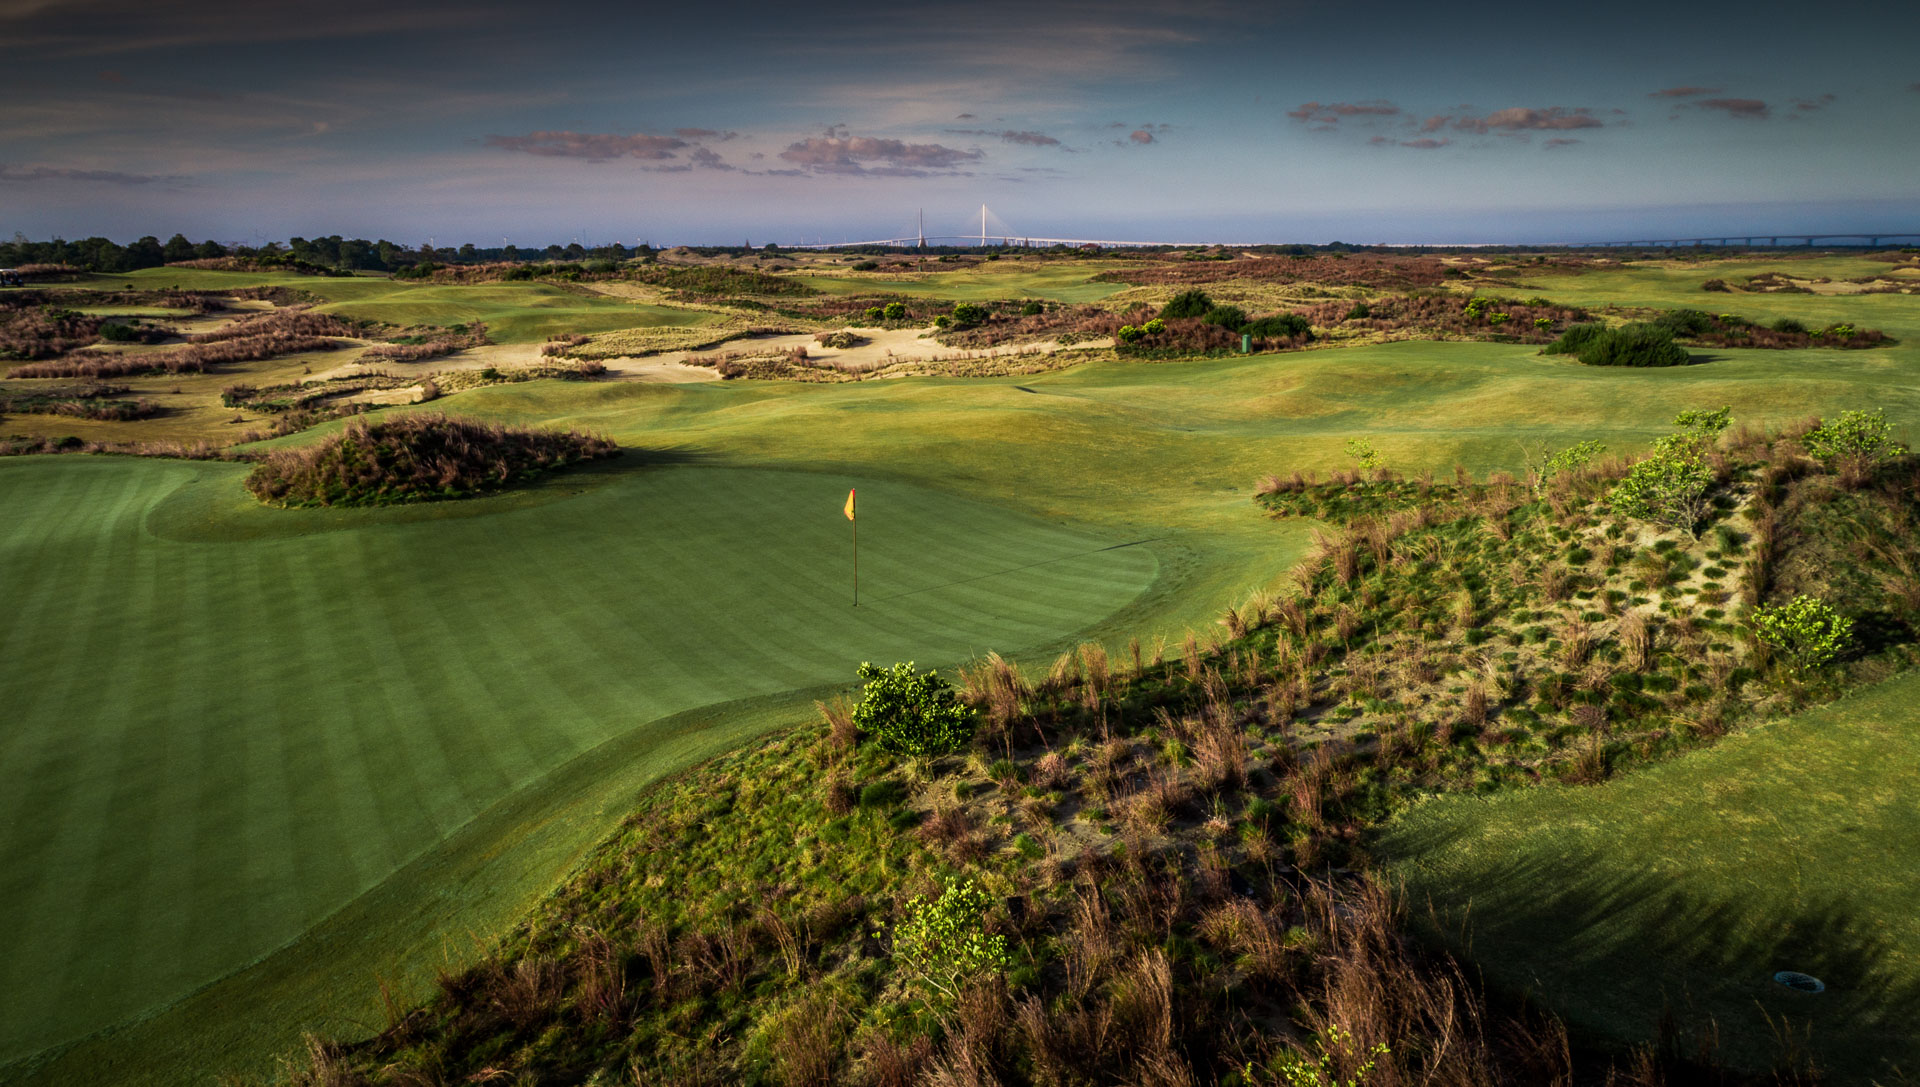
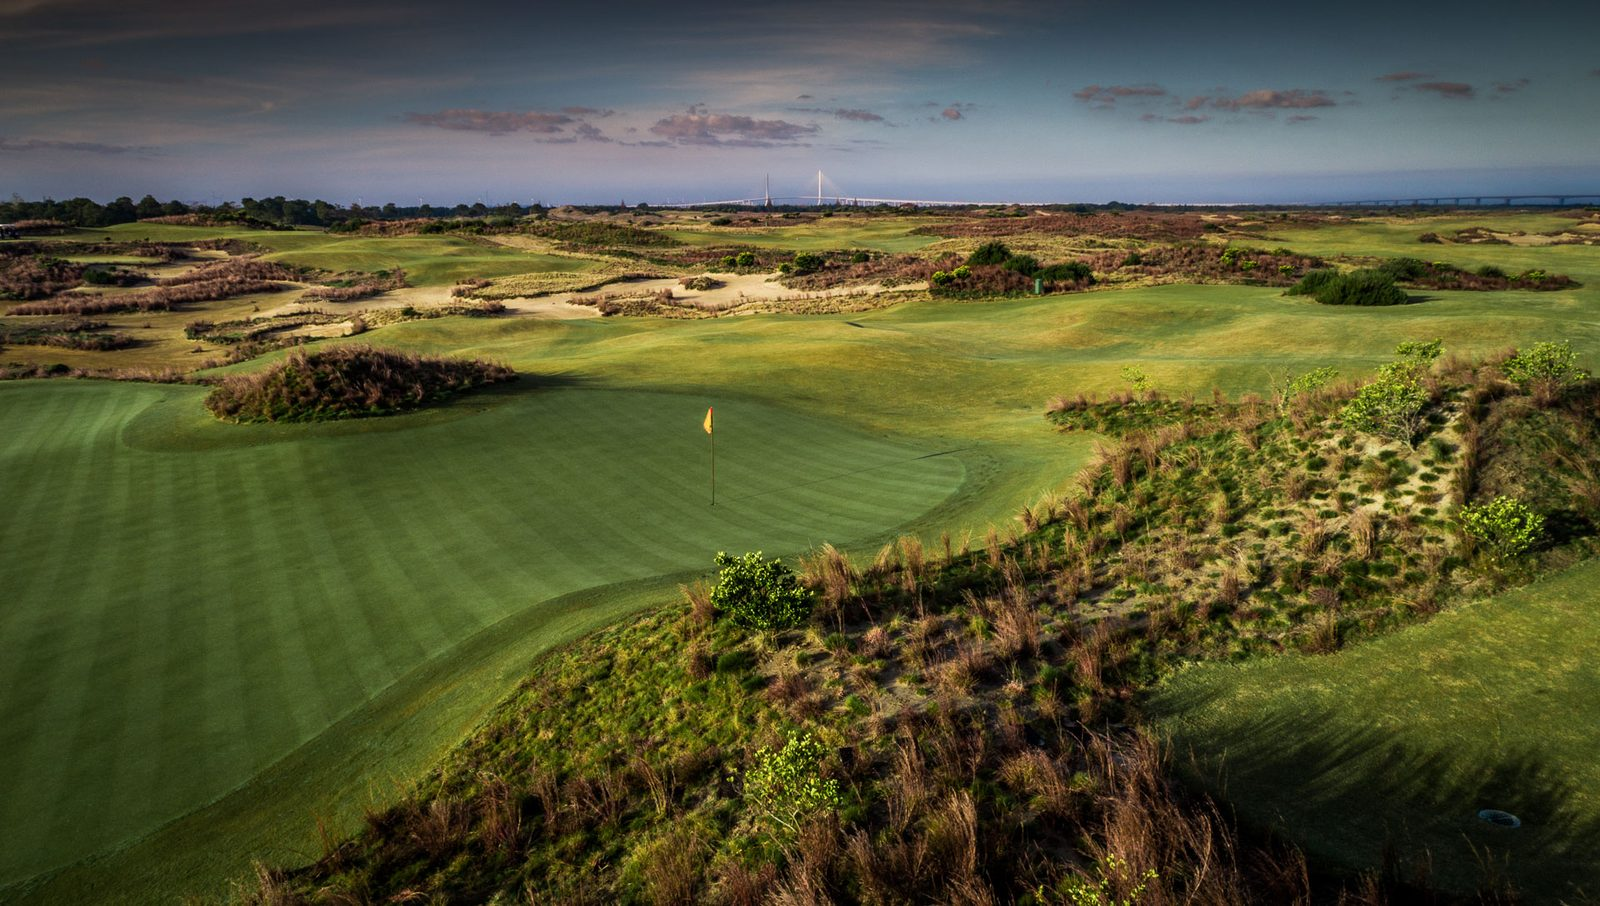
Sync latest working versions of south-of-the-clouds page and recompressed course images

diff --git a/south-of-the-clouds.html b/south-of-the-clouds.html
@@ -3,8 +3,8 @@
 <head>
 <meta charset="UTF-8">
 <meta name="viewport" content="width=device-width, initial-scale=1.0">
-<title>Imperial China — Beijing Golf Journeys | Golf China</title>
-<meta name="description" content="A private golf journey through Imperial China — Great Wall fairways at Reignwood Pine Valley, early-access mornings in the Forbidden City, hutong courtyards and a table set on the ramparts of the Wall itself.">
+<title>South of the Clouds — Yunnan Golf Journeys | Golf China</title>
+<meta name="description" content="A private golf journey through Yunnan — World Top 100 golf at Spring City, rounds beneath the glacier of Jade Dragon Snow Mountain, Lijiang's old town, the Tea Horse Road and dawn prayers in Shangri-La.">
 <link rel="preconnect" href="https://fonts.googleapis.com">
 <link rel="preconnect" href="https://fonts.gstatic.com" crossorigin>
 <link href="https://fonts.googleapis.com/css2?family=Cormorant+Garamond:ital,wght@0,400;0,500;0,600;1,400&family=Jost:wght@300;400;500;600&display=swap" rel="stylesheet">
@@ -245,15 +245,15 @@ footer .base{display:flex;justify-content:space-between;font-size:12px;opacity:.
 <!-- HERO -->
 <section class="hero" id="top" style="padding:0">
   <picture>
-    <source media="(max-width:760px)" srcset="assets/img/hero-templeofheaven-mobile.jpg">
-    <img class="bg" src="assets/img/hero-templeofheaven.jpg" alt="The Temple of Heaven glowing at golden hour beside imperial walls, Beijing">
+    <source media="(max-width:760px)" srcset="assets/img/hero-yunnan-mobile.jpg">
+    <img class="bg" src="assets/img/hero-yunnan.jpg" alt="The turquoise water of Blue Moon Valley beneath the snow peaks of Jade Dragon Snow Mountain, Lijiang">
   </picture>
   <div class="scrim"></div>
   <div class="container hero-inner">
-    <div class="crumbs fade in"><a href="index.html">Home</a><span class="sep">·</span><a href="index.html#destinations">Destinations</a><span class="sep">·</span>Beijing</div>
-    <span class="eyebrow">Beijing · North China</span>
-    <h1>Imperial China</h1>
-    <p class="hero-tag">Six hundred years of empire, a wild stretch of the Wall to yourselves — and golf played in its shadow.</p>
+    <div class="crumbs fade in"><a href="index.html">Home</a><span class="sep">·</span><a href="index.html#destinations">Destinations</a><span class="sep">·</span>Yunnan</div>
+    <span class="eyebrow">Yunnan · Southwest China</span>
+    <h1>South of the Clouds</h1>
+    <p class="hero-tag">Fairways at three thousand metres, a glacier above the green — and a corner of China that feels like another country.</p>
   </div>
 </section>
 
@@ -261,10 +261,10 @@ footer .base{display:flex;justify-content:space-between;font-size:12px;opacity:.
 <div class="facts">
   <div class="container">
     <div class="grid">
-      <div class="f"><div class="fk">Ideal Length</div><div class="fv">4–5 nights</div><div class="fs">as part of a longer journey</div></div>
-      <div class="f"><div class="fk">Golf</div><div class="fv">2–3 rounds</div><div class="fs">incl. Reignwood Pine Valley</div></div>
-      <div class="f"><div class="fk">Best Season</div><div class="fv">Apr–Oct</div><div class="fs">clear skies, golden autumn light</div></div>
-      <div class="f"><div class="fk">Pairs With</div><div class="fv">Hangzhou · Shanghai</div><div class="fs">45 min by air · 4.5 h by rail</div></div>
+      <div class="f"><div class="fk">Ideal Length</div><div class="fv">5–7 nights</div><div class="fs">or 4 as part of a longer journey</div></div>
+      <div class="f"><div class="fk">Golf</div><div class="fv">3–4 rounds</div><div class="fs">Spring City's two courses + Jade Dragon</div></div>
+      <div class="f"><div class="fk">Best Season</div><div class="fv">Year-round</div><div class="fs">eternal spring in Kunming · Mar–Nov in Lijiang</div></div>
+      <div class="f"><div class="fk">Pairs With</div><div class="fv">Hainan · Beijing</div><div class="fs">direct flights from Kunming and Lijiang</div></div>
     </div>
   </div>
 </div>
@@ -274,19 +274,20 @@ footer .base{display:flex;justify-content:space-between;font-size:12px;opacity:.
   <div class="container ov-wrap">
     <div class="ov-txt fade">
       <span class="eyebrow">The Journey</span>
-      <h2>Begin where China began.</h2>
-      <p class="lede">Every empire leaves a capital, and none left one like Beijing. The Forbidden City still sits at the centre of the city's grid like a held breath; the Great Wall still rides the ridgelines an hour to the north. This is where a first journey through China should open — among the icons, before the country starts surprising you.</p>
-      <p>Our Beijing is quieter than the one most visitors see. You enter the Forbidden City as the gates open and the courtyards are still empty. You walk a wild, unrestored stretch of the Wall with no one else on it. And between the monuments you slip into the hutongs — the low, grey-brick lanes where the city actually lives — for noodles, courtyard cafés and the best roast duck of your life.</p>
-      <p>The golf belongs to the same landscape. At Reignwood Pine Valley, Jack Nicklaus laid fairways through the Jundu Mountains with the Wall tracing the skyline above the back nine. Few rounds anywhere carry a sense of place like it.</p>
+      <h2>China, south of the clouds.</h2>
+      <p class="lede">Yúnnán means "south of the clouds," and the province keeps the promise of the name. Up on its high plateau the light is thin and golden, camellias bloom through December, and the land climbs from rice terraces through pine forest to the first white shoulders of the Himalaya. No region of China feels less like the China you imagined — and none rewards the journey more.</p>
+      <p>The route runs from Kunming, the City of Eternal Spring, north along the old Tea Horse Road to Lijiang, where the grey-tile rooftops of the Naxi old town crowd beneath Jade Dragon Snow Mountain. Beyond it the road keeps rising — to gorges, lamaseries and the highland plain they renamed Shangri-La. Markets here sell wild matsutake; tea is poured the way it has been for a thousand years.</p>
+      <p>And the golf is unlike anywhere else in the game. Spring City's two courses rank among Asia's very best, laid over a highland lake at 2,000 metres. At Jade Dragon, you play the world's longest championship course beneath a 5,500-metre glacier — where the air is thin enough that the ball flies ten percent farther, and you'll need it.</p>
     </div>
     <aside class="glance fade">
       <h3>At a Glance</h3>
       <ul>
-        <li>Golf beneath the Great Wall at Reignwood Pine Valley</li>
-        <li>Early-access morning in the Forbidden City</li>
-        <li>A private, unrestored stretch of the Wall — with dinner on the ramparts</li>
-        <li>Hutong life: courtyard lanes, markets and a chef's-table duck dinner</li>
-        <li>Hotels the likes of the Waldorf Astoria's hutong courtyards</li>
+        <li>Two rounds at Spring City — Nicklaus' Mountain and Trent Jones Jr's Lake</li>
+        <li>Golf beneath a 5,500 m glacier at Jade Dragon Snow Mountain</li>
+        <li>Lijiang's UNESCO old town in the quiet hours, with a Naxi guide</li>
+        <li>The Tea Horse Road: aged pu'er, courtyard tea houses, mountain villages</li>
+        <li>Dawn prayers with the monks at Songzanlin, Shangri-La</li>
+        <li>Hotels the likes of Banyan Tree Lijiang, the snow mountain at the window</li>
         <li>Private driver, guide and every tee time handled</li>
       </ul>
       <p class="gnote">Every element below is a starting point — shaped to your dates, your party and your pace.</p>
@@ -299,60 +300,60 @@ footer .base{display:flex;justify-content:space-between;font-size:12px;opacity:.
   <div class="container">
     <div class="section-head fade">
       <span class="eyebrow" style="color:var(--gold)">The Golf</span>
-      <h2>Fairways in the shadow of the Wall.</h2>
-      <p>Beijing's best golf hides in the mountains north of the city — private, immaculate and all but unknown to international golfers.</p>
+      <h2>Golf at altitude.</h2>
+      <p>Yunnan's two great venues hold World Top 100 and Asia Top 50 rankings between them — highland golf in thin, clear air, with scenery no other golf destination can answer.</p>
     </div>
 
     <article class="golf-feature fade">
       <div class="img gal">
-        <img class="active" src="assets/img/reignwood-greatwall.jpg" alt="Golfers on a Reignwood Pine Valley fairway with the Great Wall snaking across the mountains behind">
-        <img src="assets/img/reignwood-caddies.jpg" alt="Caddies and players walking a Reignwood fairway beneath the jagged Jundu peaks" loading="lazy">
-        <img src="assets/img/reignwood-autumn-green.jpg" alt="An autumn green at Reignwood Pine Valley with a mountain rising behind" loading="lazy">
-        <img src="assets/img/reignwood-clubhouse.jpg" alt="The white château clubhouse of Reignwood Pine Valley beneath the Jundu Mountains" loading="lazy">
+        <img class="active" src="assets/img/springcity-lake-dusk.jpg" alt="Dusk over a Spring City fairway running down toward Yangzong Lake, Kunming">
+        <img src="assets/img/springcity-lake-aerial.jpg" alt="An aerial view of Spring City's Lake Course in golden evening light above Yangzong Lake" loading="lazy">
+        <img src="assets/img/springcity-mountain-green.jpg" alt="An elevated green on Spring City's Mountain Course, the highland lake spread out below" loading="lazy">
+        <img src="assets/img/springcity-island-green.jpg" alt="An island green ringed by white sand at Spring City Golf &amp; Lake Resort" loading="lazy">
+        <img src="assets/img/springcity-lakeside-bunker.jpg" alt="A bunkered lakeside green at Spring City with Yangzong Lake beyond" loading="lazy">
         <button class="gal-btn prev" aria-label="Previous image">‹</button>
         <button class="gal-btn next" aria-label="Next image">›</button>
         <div class="gal-dots"></div>
-        <span class="tag">Signature round</span>
+        <span class="tag">World Top 100</span>
       </div>
       <div class="c">
-        <div class="region">Jundu Mountains · Changping</div>
-        <h3>Reignwood Pine Valley</h3>
-        <p>Set beneath the Great Wall near Badaling, Reignwood Pine Valley is one of China's most private and prestigious golf clubs — a Nicklaus mountain-parkland layout where elevated tees, sculpted bunkering and fast, guarded greens unfold below the Jundu Mountains, the Wall tracing the ridgeline above. Membership is closely held; we arrange guest play on your behalf, with caddies, forecaddies and a quiet clubhouse lunch to follow.</p>
+        <div class="region">Yangzong Lake · Kunming</div>
+        <h3>Spring City Golf &amp; Lake Resort</h3>
+        <p>Asia's most complete golf resort: two courses ranked among the continent's finest, draped over hills above a highland lake at 2,000 metres. Robert Trent Jones Jr's Lake Course tumbles toward the water through forests of eucalyptus and pine — a World Top 100 fixture — while Jack Nicklaus' Mountain Course climbs the ridgeline above it, all elevation change and long views. The eternal-spring climate means both play beautifully in any month of the year.</p>
         <dl>
-          <dt>Designer</dt><dd>Jack Nicklaus / Nicklaus Design</dd>
-          <dt>Setting</dt><dd>Great Wall mountain parkland</dd>
-          <dt>Best season</dt><dd>Apr–Oct</dd>
-          <dt>Pair with</dt><dd>Great Wall, Forbidden City, private Beijing dining</dd>
+          <dt>Designers</dt><dd>Jack Nicklaus · Robert Trent Jones Jr</dd>
+          <dt>Setting</dt><dd>Lakeside highland, 2,000 m</dd>
+          <dt>Best season</dt><dd>Year-round</dd>
+          <dt>Pair with</dt><dd>Kunming's old quarters, the Stone Forest — then Lijiang by air</dd>
         </dl>
       </div>
     </article>
 
     <article class="golf-feature fade">
       <div class="img gal">
-        <img class="active" src="assets/img/course-topwin.jpg" alt="Autumn fairways at Topwin Golf &amp; Country Club, with the Yanqi Lake pagoda and the Yanshan mountains beyond">
-        <img src="assets/img/topwin-lakeside-green.jpg" alt="A bunkered lakeside green jutting into Yanqi Lake, framed by autumn leaves" loading="lazy">
-        <img src="assets/img/topwin-pagoda-lake.jpg" alt="The Yanqi Lake pagoda mirrored in still water beside the course" loading="lazy">
-        <img src="assets/img/topwin-autumn-fairways.jpg" alt="Rolling fairways and autumn grasses beneath the Yanshan range at Topwin" loading="lazy">
-        <img src="assets/img/topwin-stone-bridge.jpg" alt="A stone bridge arching over a still stream on the course, golden willows reflected in the water" loading="lazy">
+        <img class="active" src="assets/img/jadedragon-snowpeak-fairway.jpg" alt="A fairway at Jade Dragon Snow Mountain Golf Club beneath the full sweep of the glacier-capped massif">
+        <img src="assets/img/jadedragon-summer-fairway.jpg" alt="Sunlit summer fairways at Jade Dragon with the snow peak rising behind" loading="lazy">
+        <img src="assets/img/jadedragon-lake-reflection.jpg" alt="Jade Dragon Snow Mountain reflected in still water beside the course" loading="lazy">
+        <img src="assets/img/jadedragon-bunkers-peak.jpg" alt="Red-earth bunkers guarding a green beneath the peaks of Jade Dragon Snow Mountain" loading="lazy">
         <button class="gal-btn prev" aria-label="Previous image">‹</button>
         <button class="gal-btn next" aria-label="Next image">›</button>
         <div class="gal-dots"></div>
-        <span class="tag">A presidential round</span>
+        <span class="tag">Golf at 3,100 m</span>
       </div>
       <div class="c">
-        <div class="region">Yanqi Lake · Huairou</div>
-        <h3>Topwin Country Club</h3>
-        <p>Lakeside fairways beneath the Yanshan range, beside the waters where the world's leaders gathered for the 2014 APEC summit — President Obama among those to have played a round here. In autumn the course turns gold and crimson, the pagoda rising over the back nine.</p>
+        <div class="region">Lijiang · Yulong</div>
+        <h3>Jade Dragon Snow Mountain</h3>
+        <p>The most dramatic setting in golf. At 3,100 metres in the Himalayan foothills, Jade Dragon stretches to 8,450 yards — the longest championship course in the world — yet the thin air carries your ball ten percent farther, and you will want every metre of it. Above the fairways the 5,500-metre glacier of the snow mountain fills the sky; around them, pine forest and Naxi villages. A round here is simply unrepeatable anywhere else.</p>
         <dl>
-          <dt>Designer</dt><dd>Ian Woosnam</dd>
-          <dt>Setting</dt><dd>Lakeside parkland, Yanqi Lake</dd>
-          <dt>Claim to fame</dt><dd>Obama's Beijing round, APEC 2014</dd>
-          <dt>Pair with</dt><dd>The Great Wall at Mutianyu, 20 minutes away</dd>
+          <dt>Designer</dt><dd>Neil Haworth / Nelson &amp; Haworth</dd>
+          <dt>Setting</dt><dd>Himalayan foothills, 3,100 m</dd>
+          <dt>Claim to fame</dt><dd>The world's longest course — 8,450 yards</dd>
+          <dt>Best season</dt><dd>Mar–Nov</dd>
         </dl>
       </div>
     </article>
 
-    <p class="golf-note fade"><b>A third round</b> is easily woven in — parkland and lakeside courses across the Jundu foothills and the city's north, chosen for your dates and the season. We'll recommend the right pairing when we design your journey.</p>
+    <p class="golf-note fade"><b>The classic shape</b> is two rounds at Spring City and one beneath the snow mountain — Lijiang is 45 minutes from Kunming by air. Keen golfers add a second round at Jade Dragon; the morning light on the glacier argues for it.</p>
   </div>
 </section>
 
@@ -360,19 +361,20 @@ footer .base{display:flex;justify-content:space-between;font-size:12px;opacity:.
 <section class="journeys" id="journeys">
   <div class="container">
     <div class="section-head fade">
-      <span class="eyebrow">Journeys Featuring Beijing</span>
-      <h2>Where Beijing fits in a journey.</h2>
-      <p>Beijing rarely travels alone — it opens a longer route. Two of our sample journeys begin here; the full day-by-day shape of each lives on its own page.</p>
+      <span class="eyebrow">Journeys Featuring Yunnan</span>
+      <h2>Where Yunnan fits in a journey.</h2>
+      <p>Yunnan is the signature chapter of a Golf China route — distinctive enough to anchor a journey, connected enough to extend one. Two of our sample journeys are built around it.</p>
     </div>
     <div class="sj-grid">
 
       <article class="sjcard fade">
-        <img src="assets/img/sj-firsttime.jpg" style="object-position:bottom" alt="A palace-style clubhouse above bunkered fairways, misty hills behind"><div class="scrim"></div>
+        <span class="sj-badge">Signature Trip</span>
+        <img src="assets/img/jadedragon-fairway.jpg" alt="A fairway beneath the snow peaks of Jade Dragon Snow Mountain, Yunnan"><div class="scrim"></div>
         <div class="b">
-          <div class="specs">6–7 Nights · 3 Rounds</div>
-          <h3>First-Time Golf China</h3>
-          <div class="route">Beijing + Hangzhou</div>
-          <div class="hi">Imperial China, Great Wall golf and the quiet elegance of West Lake — the natural first journey.</div>
+          <div class="specs">10–12 Nights · 5–6 Rounds</div>
+          <h3>Snow Peaks to Tropical Coast</h3>
+          <div class="route">Yunnan + Hainan</div>
+          <div class="hi">Highland fairways and Tea Horse Road culture, then south to Asia's most exclusive golf on a tropical coast.</div>
           <div class="foot"><a href="index.html#start">Tailor This Journey →</a></div>
         </div>
       </article>
@@ -384,7 +386,7 @@ footer .base{display:flex;justify-content:space-between;font-size:12px;opacity:.
           <div class="specs">14 Nights / 15 Days · 7–9 Rounds</div>
           <h3>The Grand China Golf Journey</h3>
           <div class="route">Beijing + Hangzhou + Yunnan + Hainan</div>
-          <div class="hi">Open in the capital, finish on a tropical coast — the most complete way to experience Golf China.</div>
+          <div class="hi">Open in the capital, rise through the clouds of Yunnan, finish on a tropical coast — the complete Golf China.</div>
           <div class="foot"><a href="index.html#start">Tailor This Journey →</a></div>
         </div>
       </article>
@@ -393,8 +395,8 @@ footer .base{display:flex;justify-content:space-between;font-size:12px;opacity:.
 
     <div class="tailor fade">
       <div class="t">
-        <h3>Or build Beijing into your own.</h3>
-        <p>Add days, swap rounds for culture, bring non-golfers — every journey is designed from scratch. Tell us about your party and we'll shape the route around you.</p>
+        <h3>Or build Yunnan into your own.</h3>
+        <p>Add Shangri-La or Dali, swap rounds for gorge walks, bring non-golfers — every journey is designed from scratch. Tell us about your party and we'll shape the route around you.</p>
       </div>
       <a href="index.html#start" class="btn btn-primary">Request a Private Proposal</a>
     </div>
@@ -406,40 +408,52 @@ footer .base{display:flex;justify-content:space-between;font-size:12px;opacity:.
   <div class="container">
     <div class="section-head fade">
       <span class="eyebrow">Signature Experiences</span>
-      <h2>Beijing, arranged privately.</h2>
+      <h2>Yunnan, arranged privately.</h2>
       <p>Built on relationships on the ground, set up for your party alone — never an excursion from a brochure.</p>
     </div>
     <div class="ex-grid">
 
       <article class="excard feature fade">
-        <img src="assets/img/place-greatwall.jpg" alt="The Great Wall snaking over ridgelines at golden hour">
+        <picture>
+          <source media="(max-width:760px)" srcset="assets/img/exp-songzanlin-mobile.jpg">
+          <img src="assets/img/exp-songzanlin.jpg" alt="Monks in crimson robes walking a sunlit lane at Songzanlin Monastery, Shangri-La">
+        </picture>
         <div class="b">
-          <div class="loc">Beijing · The Wall</div>
-          <h3>The Great Wall, after hours</h3>
-          <p>A wild, unrestored stretch with a private guide — and a table set on the ramparts as the light goes gold.</p>
+          <div class="loc">Shangri-La · Yunnan</div>
+          <h3>Dawn prayers at Songzanlin</h3>
+          <p>The hillside lamasery they call the little Potala, before the first visitors arrive — butter tea with the monks as the morning chant begins.</p>
         </div>
       </article>
 
       <article class="excard fade">
-        <img src="assets/img/dest-beijing.jpg" alt="The Forbidden City at golden hour, Beijing">
+        <img src="assets/img/lijiang-oldtown-rooftops.jpg" alt="The grey-tile rooftops of Lijiang old town crowding beneath dark mountains">
         <div class="b">
-          <div class="loc">Beijing · Forbidden City</div>
-          <h3>First through the Meridian Gate</h3>
-          <p>The palace courtyards before the city wakes, with a historian who reads the architecture like a text.</p>
+          <div class="loc">Lijiang · Old Town</div>
+          <h3>The old town, before it wakes</h3>
+          <p>Lijiang's canals and grey-tile lanes in the quiet hours with a Naxi historian — ending over breakfast in a courtyard that has held the same family for ten generations.</p>
         </div>
       </article>
 
       <article class="excard fade">
-        <img src="assets/img/stay-city.jpg" alt="Golden roofs and vermilion walls of the Forbidden City, Beijing">
+        <img src="assets/img/exp-mushroom.jpg" alt="A wild porcini mushroom growing on the pine-forest floor, Yunnan">
         <div class="b">
-          <div class="loc">Beijing · Hutongs</div>
-          <h3>The hutong chef's table</h3>
-          <p>Into the morning markets with a chef, then lunch cooked and poured in a private courtyard house.</p>
+          <div class="loc">Yunnan · Jun–Sep</div>
+          <h3>The wild-mushroom table</h3>
+          <p>Into the pine forests with a master forager to hunt matsutake and porcini — then watch the morning's haul become dinner at a local chef's table.</p>
+        </div>
+      </article>
+
+      <article class="excard fade">
+        <img src="assets/img/exp-tea.jpg" alt="Tea pickers in conical hats working rolling terraced tea fields">
+        <div class="b">
+          <div class="loc">Lijiang · Yunnan</div>
+          <h3>Tea on the Tea Horse Road</h3>
+          <p>Aged pu'er poured by a tea master in a Naxi courtyard along the old caravan route — a thousand years of trade in one cup.</p>
         </div>
       </article>
 
     </div>
-    <p class="note fade">These are a beginning, not a menu — tell us what your party loves and we'll find its Beijing equivalent.</p>
+    <p class="note fade">These are a beginning, not a menu — tell us what your party loves and we'll find its Yunnan equivalent.</p>
   </div>
 </section>
 
@@ -448,26 +462,26 @@ footer .base{display:flex;justify-content:space-between;font-size:12px;opacity:.
   <div class="container">
     <div class="section-head fade">
       <span class="eyebrow" style="color:var(--gold)">Where You Stay</span>
-      <h2>Sleep inside the old city.</h2>
-      <p>Not a tower by the ring road — an address that is part of the journey itself.</p>
+      <h2>Sleep beneath the snow mountain.</h2>
+      <p>Not a tower by the airport road — an address that is part of the journey itself.</p>
     </div>
     <div class="stay-wrap fade">
-      <div class="img"><img src="assets/img/stay-city.jpg" alt="Golden imperial rooftops in central Beijing"></div>
+      <div class="img"><img src="assets/img/stay-mountain.jpg" alt="Naxi rooftops in Lijiang with Jade Dragon Snow Mountain glowing at sunset"></div>
       <div class="c">
-        <div class="loc">In the City · Hutong Courtyards</div>
-        <h3>Sleep where the city is oldest</h3>
-        <p>Our Beijing favourites sit in the hutongs, a few lanes from the Forbidden City — the likes of the Waldorf Astoria's courtyard houses, where grey brick and bronze doors give way to deep baths and very good martinis. Step out of the gate and the oldest streets in the capital are yours before breakfast.</p>
-        <p>For travelers who prefer glass and skyline to grey brick, the city's modern landmarks along the central axis make an equally good base — we'll match the address to your taste.</p>
+        <div class="loc">In Lijiang · Naxi Courtyards</div>
+        <h3>The mountain at your window</h3>
+        <p>Our Lijiang favourites are built the Naxi way — the likes of Banyan Tree Lijiang, where grey-tile villas open onto private courtyards and Jade Dragon Snow Mountain fills the window at breakfast. The old town is minutes away; the silence at night is absolute.</p>
+        <p>For travelers going on to Shangri-La, we arrange highland lodges of the same character — fires lit, oxygen humidified, the lamasery a short walk through the fields.</p>
       </div>
     </div>
 
     <div class="stay-wrap rev fade">
-      <div class="img"><img src="assets/img/place-greatwall.jpg" alt="The Great Wall riding mountain ridgelines at golden hour, north of Beijing"></div>
+      <div class="img"><img src="assets/img/springcity-resort-dusk.jpg" alt="Terracotta rooftops of the Spring City resort above Yangzong Lake at sunset"></div>
       <div class="c">
-        <div class="loc">In the Mountains · Near the Wall</div>
-        <h3>A night at the foot of the Wall</h3>
-        <p>With both rounds played out in Huairou's mountains, a night in the countryside earns its place — a quiet retreat below the ridgeline, where the Wall is visible from the terrace and the first tee is minutes away rather than an hour through traffic.</p>
-        <p>It pairs naturally with the after-hours Wall evening: dinner on the ramparts, a short drive down, and mountain silence instead of the ring road.</p>
+        <div class="loc">At Spring City · Above the Lake</div>
+        <h3>Stay on the resort, steps from the tee</h3>
+        <p>For the Kunming rounds, the move is to stay within Spring City itself — suites and villas on the hillside above Yangzong Lake, where the first tee of the Lake Course is minutes from your door and the evening is a terrace, a drink and the water turning gold below.</p>
+        <p>Thirty-six holes, no transfers, eternal-spring air: it is the easiest golf stay in China.</p>
       </div>
     </div>
 

diff --git a/index.html b/index.html
@@ -620,6 +620,47 @@ footer .base{display:flex;justify-content:space-between;font-size:12px;opacity:.
         </div>
       </article>
 
+      <article class="ccard more fade">
+        <div class="img"><img src="assets/img/course-yangtze.jpg" alt="A green at Yangtze Dunes surrounded by wild sandy dunes at dusk, Chongming Island" loading="lazy"><span class="tag">Shanghai</span></div>
+        <div class="c">
+          <div class="region">Chongming · Shanghai</div><h3>Yangtze Dunes</h3><div class="rankline">China Top 3 · Top 100 Golf Courses</div>
+          <p>True links at the mouth of the Yangtze — windswept dunes and fescue on Chongming Island, rebuilt by OCCM into one of Asia's finest modern courses.</p>
+          <div class="meta"><span><b>Designer</b> · OCCM (Ogilvy, Clayton, Cocking &amp; Mead)</span><span><b>Setting</b> · Estuary linksland</span><span><b>Best season</b> · Apr–Jun, Sep–Nov</span><span><b>Pair with</b> · Sheshan, the Bund</span></div>
+        </div>
+      </article>
+
+      <article class="ccard more fade">
+        <div class="img"><img src="assets/img/course-hainan-blackstone.jpg" alt="Rugged white-sand bunkers across a fairway at dusk on the Blackstone course, Haikou" loading="lazy"><span class="tag">Hainan</span></div>
+        <div class="c">
+          <div class="region">Haikou · Hainan</div><h3>Mission Hills Haikou — Blackstone</h3><div class="rankline">World Top 100 · Golf Digest</div>
+          <p>Big, bold championship golf laid over ancient lava fields — host of the 2011 World Cup and the flagship of Asia's largest golf resort.</p>
+          <div class="meta"><span><b>Designer</b> · Schmidt-Curley</span><span><b>Setting</b> · Lava-rock parkland</span><span><b>Best season</b> · Oct–Apr</span><span><b>Pair with</b> · The Dunes, Sanya</span></div>
+        </div>
+      </article>
+
+      <article class="ccard more fade">
+        <div class="img"><img src="assets/img/course-topwin.jpg" alt="Topwin fairways and a pagoda above Yanqi Lake in autumn, with mountains beyond, Beijing" loading="lazy"><span class="tag">Beijing</span></div>
+        <div class="c">
+          <div class="region">Yanqi Lake · Beijing</div><h3>Topwin Golf &amp; Country Club</h3><div class="rankline">China Top 10 · Top 100 Golf Courses</div>
+          <p>Immaculate parkland beside Yanqi Lake, a pagoda skyline and mountains beyond — a former China Open venue an hour from the capital.</p>
+          <div class="meta"><span><b>Designer</b> · Ian Woosnam / IMG</span><span><b>Setting</b> · Lakeside mountain parkland</span><span><b>Best season</b> · Apr–Oct</span><span><b>Pair with</b> · Great Wall, Reignwood</span></div>
+        </div>
+      </article>
+
+      <article class="ccard more fade">
+        <div class="img"><img src="assets/img/course-guilin.jpg" alt="A karst limestone pinnacle rising above the fairways at Guilin Landscape Golf Club" loading="lazy"><span class="tag">Guilin</span></div>
+        <div class="c">
+          <div class="region">Guilin · Guangxi</div><h3>Guilin Landscape</h3>
+          <p>Fairways threading between karst pinnacles — golf inside a classical Chinese ink painting, minutes from the Li River.</p>
+          <div class="meta"><span><b>Designer</b> · Dana Fry</span><span><b>Setting</b> · Karst valley</span><span><b>Best season</b> · Mar–May, Sep–Nov</span><span><b>Pair with</b> · Li River, Yangshuo</span></div>
+        </div>
+      </article>
+
+    </div>
+
+    <div class="more-wrap fade">
+      <button class="btn btn-more" id="course-more" type="button">See more golf courses</button>
+      <p class="sub">Four more favourites — across Shanghai, Hainan, Beijing &amp; Guilin</p>
     </div>
   </div>
 </section>